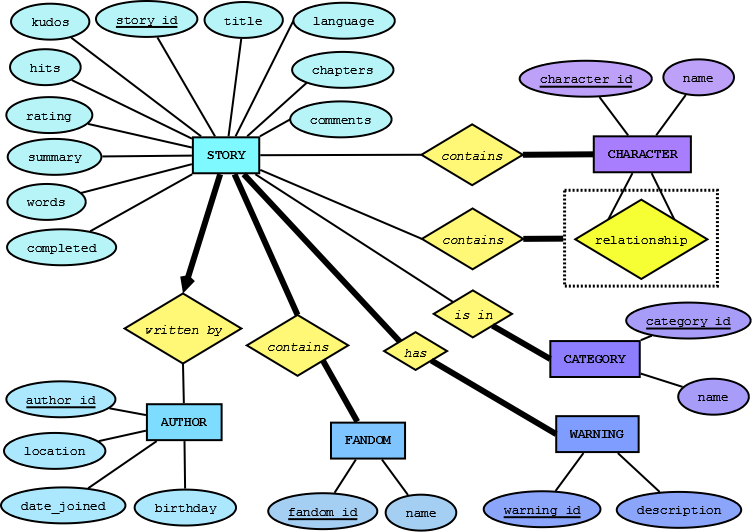
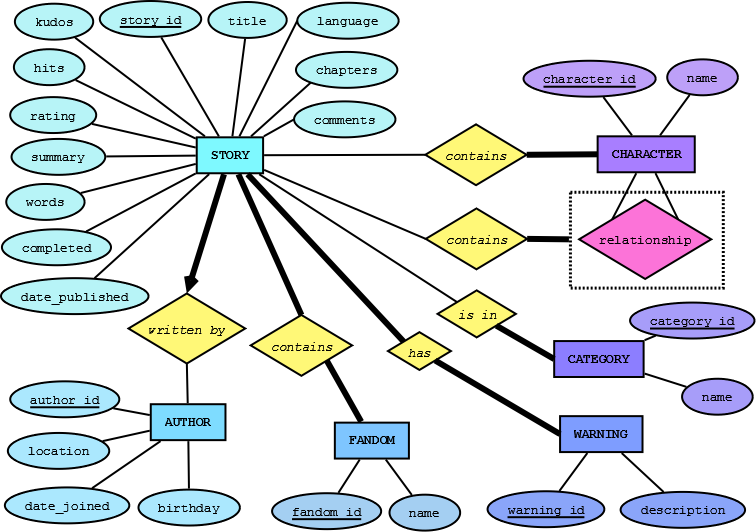
Minor changes to er diagram and adding date_published to story.

diff --git a/data-retrieval-parsing/database.py b/data-retrieval-parsing/database.py
@@ -30,7 +30,7 @@ class Database:
         warning = "warning (warning_id INTEGER PRIMARY KEY, description TEXT NOT NULL)"
         category = "category (category_id INTEGER PRIMARY KEY, name TEXT)"
         character = "character (character_id INTEGER PRIMARY KEY, name TEXT)"
-        story = "story (story_id INTEGER PRIMARY KEY, completed BOOLEAN NOT NULL, word INTEGER NOT NULL, summary TEXT NOT NULL, rating TEXT NOT NULL, hits INTEGER NOT NULL, kudos INTEGER NOT NULL, title TEXT NOT NULL, language TEXT NOT NULL, chapters INTEGER NOT NULL, comments INTEGER NOT NULL)" 
+        story = "story (story_id INTEGER PRIMARY KEY, completed BOOLEAN NOT NULL, word INTEGER NOT NULL, summary TEXT NOT NULL, rating TEXT NOT NULL, hits INTEGER NOT NULL, kudos INTEGER NOT NULL, title TEXT NOT NULL, language TEXT NOT NULL, chapters INTEGER NOT NULL, comments INTEGER NOT NULL, date_published DATE NOT NULL)" 
         entities = [author, fandom, category, character, story]     
         
         cursor = self.conn.cursor()
